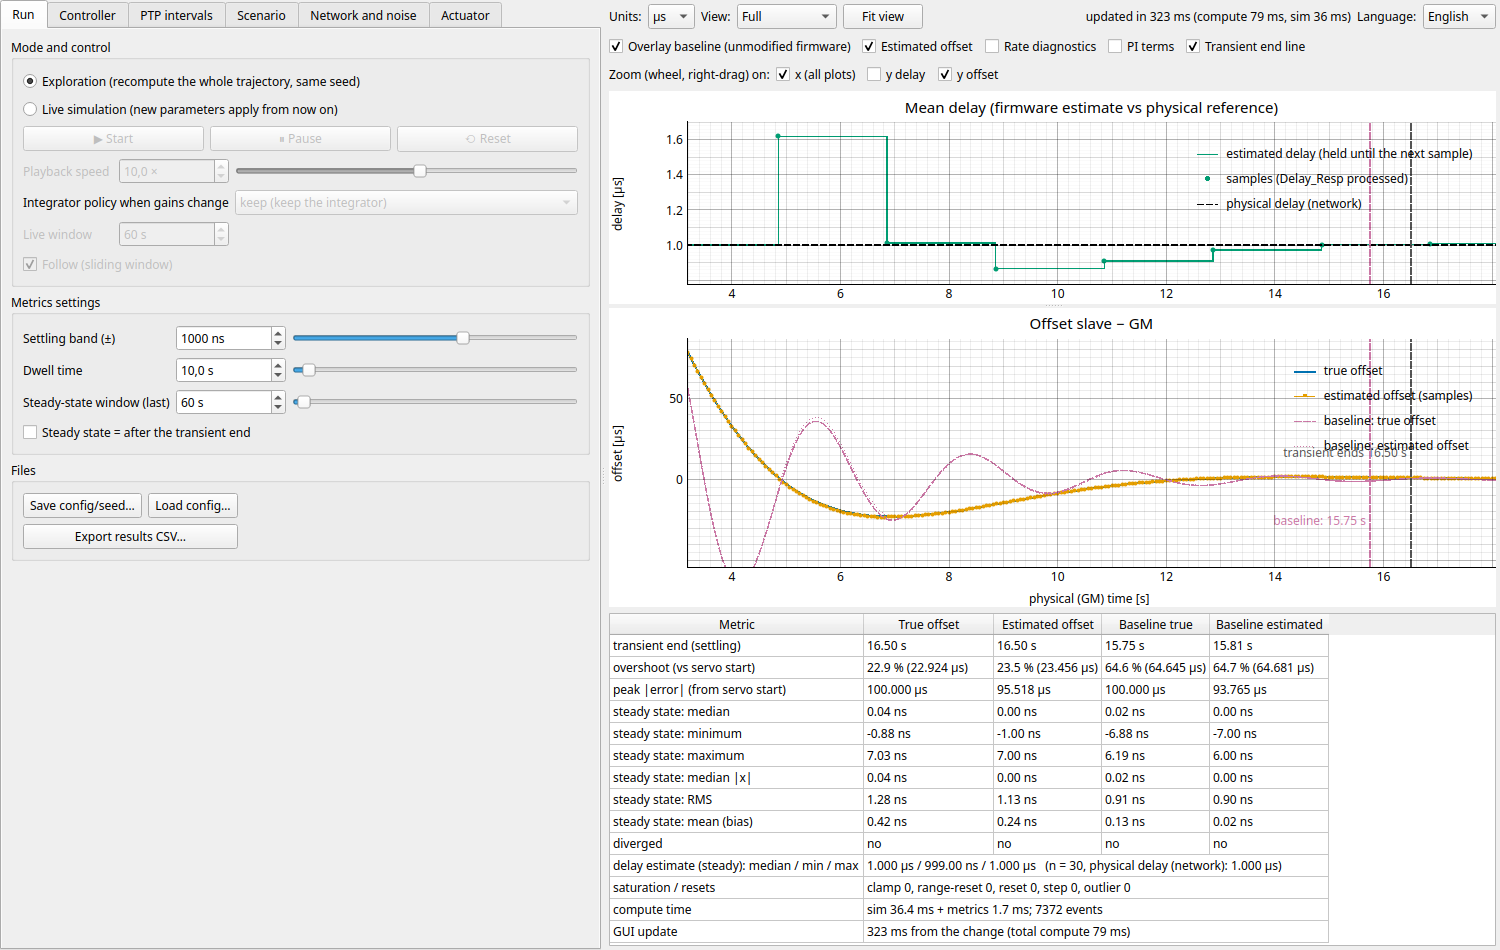
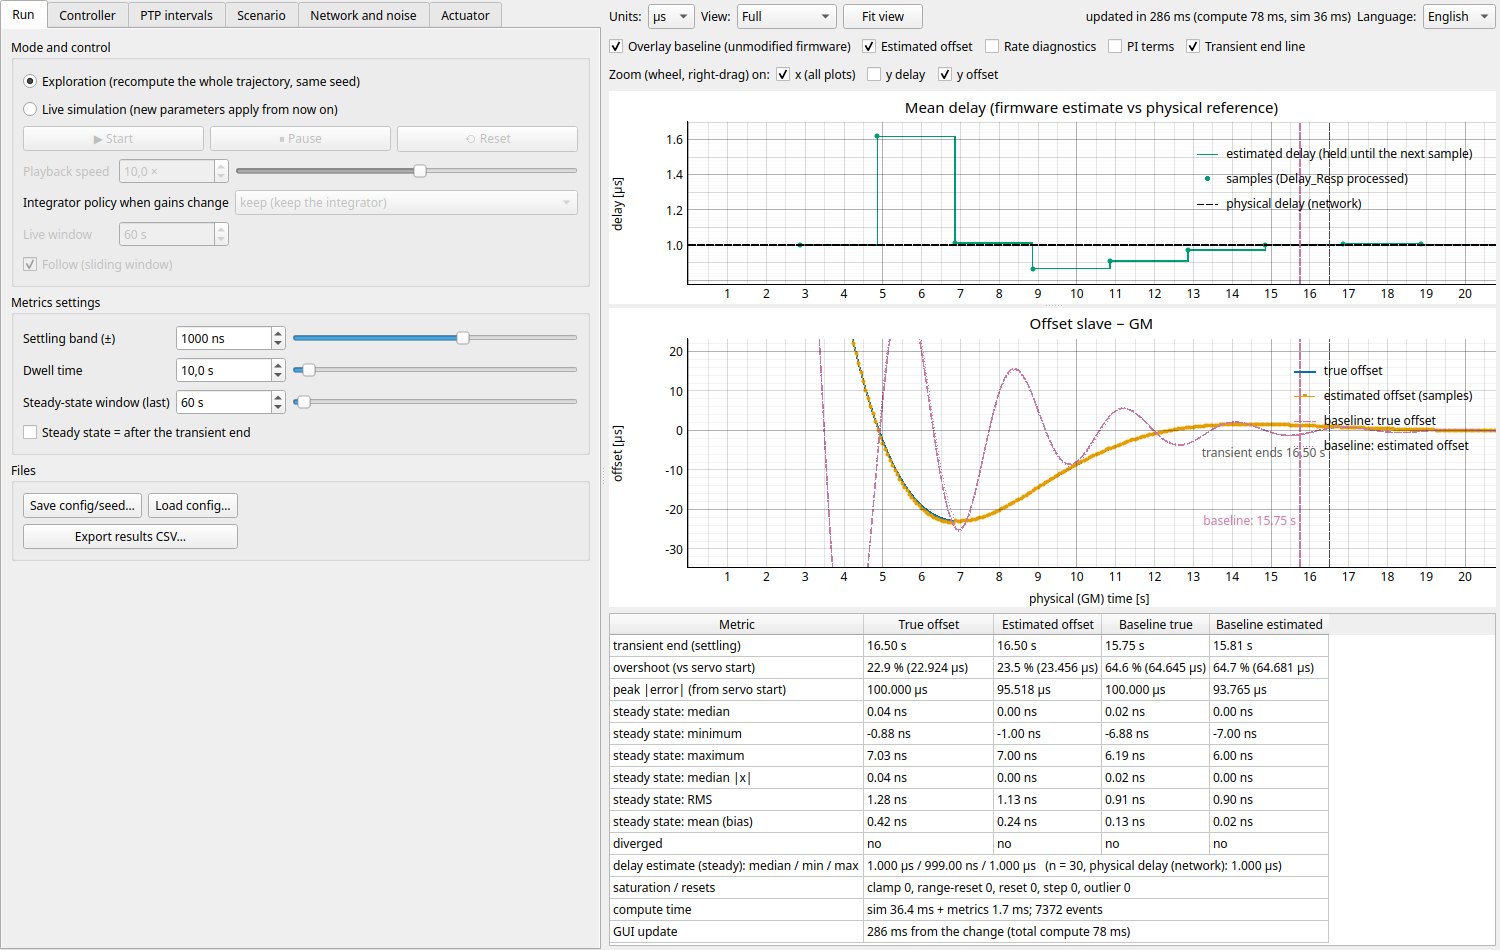
Docs: zoom screenshot shows per-plot y; README hero next to the usage lines; table-column test
The zoom scene now zooms over the offset plot (y checked) and over the delay plot (y unchecked),
so the image shows what its caption says. Regression test for the baseline-column sizing.

diff --git a/scripts/make_gui_figures.py b/scripts/make_gui_figures.py
@@ -43,7 +43,7 @@ SCENES = {
                             "controller.name": "pi_anti_windup",
                             "controller.params": {"kp": 0.7, "ki": 0.3, "i_max_ppm": 100.0}}, pi_terms=True, units="ms",
                        size=(1500, 1050)),
-    # Zoom row: x zoomed on the transient in all plots, y of the delay plot left alone
+    # Zoom row: x is shared by all plots, y is zoomed only in the plot under the cursor (and only if its box is checked)
     "zoom": dict(cfg={"duration_s": 90.0, "intervals.sync_log": -4, "oscillator.initial_offset_ns": 100e3,
                       "oscillator.freq_error_ppb": 0.0, "controller.name": "pi_per_second",
                       "controller.params": {"kp": 0.7, "ki": 0.3}}, overlay=True, zoom=True),
@@ -121,16 +121,22 @@ def main(argv=None) -> int:
 
 
 def _zoom_scene(w, spin):
-    """Wheel-zoom the time axis (all plots) at the transient, y of the delay plot excluded from the zoom."""
+    """x is shared, y is per plot: four wheel notches over the offset plot (y offset checked) near the undershoot,
+    then one over the delay plot with y delay unchecked.  The delay plot's y is then only autoscaled to the visible data."""
     from PySide6 import QtCore, QtGui, QtWidgets
     w.chk_zoom_y["delay"].setChecked(False)
-    w.p_delay.setXRange(2.0, 22.0, padding=0)          # a deterministic x window instead of a wheel position
-    spin(300)
-    vp = w.pw_off.viewport()
-    pos = QtCore.QPointF(vp.width() * 0.3, vp.height() / 2)
-    ev = QtGui.QWheelEvent(pos, vp.mapToGlobal(pos), QtCore.QPoint(0, 0), QtCore.QPoint(0, 120), QtCore.Qt.NoButton,
-                           QtCore.Qt.NoModifier, QtCore.Qt.NoScrollPhase, False)
-    QtWidgets.QApplication.sendEvent(vp, ev)           # one wheel notch: x zoomed, y of the offset plot too
+
+    def notch(pw, fx, fy):
+        vp = pw.viewport()
+        pos = QtCore.QPointF(vp.width() * fx, vp.height() * fy)
+        ev = QtGui.QWheelEvent(pos, vp.mapToGlobal(pos), QtCore.QPoint(0, 0), QtCore.QPoint(0, 120),
+                               QtCore.Qt.NoButton, QtCore.Qt.NoModifier, QtCore.Qt.NoScrollPhase, False)
+        QtWidgets.QApplication.sendEvent(vp, ev)
+        spin(100)
+
+    for _ in range(4):
+        notch(w.pw_off, 0.10, 0.62)
+    notch(w.pw_delay, 0.10, 0.5)
 
 
 def _live_scene(w, spin, until):

diff --git a/tests/test_gui.py b/tests/test_gui.py
@@ -229,3 +229,22 @@ def test_zoom_checkboxes_follow_the_visibility_of_the_optional_plots(win):
     win.chk_pi.setChecked(False)
     assert win.chk_zoom_y["diag"].isHidden() and win.chk_zoom_y["pi"].isHidden()
     win.hide()
+
+
+def test_baseline_columns_are_sized_to_their_contents_when_the_overlay_appears(win):
+    """The overlay columns are hidden without overlay; a hidden column was not sized, so its text was cut."""
+    from ptpsim.engine import simulate
+    from ptpsim.metrics import compute_metrics
+    win.show()
+    cfg = SimConfig.load(CONFIGS[0]).with_overrides(duration_s=60.0, **{"oscillator.initial_offset_ns": 100e3})
+    win.metrics = compute_metrics(simulate(cfg))
+    win.base_metrics = None
+    win._fill_table()
+    assert win.table.isColumnHidden(3) and win.table.isColumnHidden(4)
+    win.base_metrics = compute_metrics(simulate(cfg))
+    win._fill_table()
+    for j in (3, 4):
+        assert not win.table.isColumnHidden(j)
+        assert win.table.columnWidth(j) >= win.table.sizeHintForColumn(j)
+    win.metrics = win.base_metrics = None
+    win.hide()

diff --git a/README.md b/README.md
@@ -38,6 +38,10 @@ Documentation screenshots: `python scripts/make_gui_figures.py` (all scenes, en 
 Headless GUI screenshots (the real window and worker, driven from code, no display needed):
 `python scripts/gui_screenshots.py --out shots --controller pi_per_second --sync -4 -2 0 --overlay`.
 
+![GUI: pi_per_second against the baseline](docs/img/gui_run_en.png)
+*The GUI (`docs/img/gui_*_{en,it}.png`, regenerated by `scripts/make_gui_figures.py`): `pi_per_second` against the unmodified firmware baseline
+at Sync 62.5 ms, 100 µs step: undershoot 22.9 µs against 64.6 µs.*
+
 ## Repository layout
 
 | Path | Content |
@@ -113,10 +117,6 @@ At Sync ≥ 2 s the baseline diverges in the model while the variant settles in 
 is set by the path jitter and is essentially the same for both. See the full tables for Delay_Req sweeps,
 actuators and message loss: with 5 % loss the variant still settles faster (9.3 vs 14.1 s), but with **20 % loss it is
 worse** (RMS 426 vs 307 ns, 280 s vs 16 s settling) — it is not claimed better there.
-
-![GUI: pi_per_second against the baseline](docs/img/gui_run_en.png)
-*The GUI (`docs/img/gui_*_{en,it}.png`, regenerated by `scripts/make_gui_figures.py`): `pi_per_second` against the unmodified firmware baseline
-at Sync 62.5 ms, 100 µs step: undershoot 22.9 µs against 64.6 µs.*
 
 ![step response](docs/img/step_response.png)
 ![sync sweep](docs/img/sync_sweep.png)

diff --git a/docs/manual.it.md b/docs/manual.it.md
@@ -59,7 +59,7 @@ compaiono quando sono visibili). Gli assi non selezionati mantengono il loro int
 come con "Adatta vista"; lo zoom su y di un grafico selezionato spegne l'auto-range di quell'asse finché non premi "Adatta vista".
 
 ![Riga Zoom: x ingrandito, y del grafico delay deselezionato](img/gui_zoom_it.png)
-*La stessa simulazione dopo uno scatto di rotella sul grafico dell'offset con **y delay** deselezionato: l'asse del tempo è ingrandito in entrambi i grafici (circa 3–18 s) e il grafico del delay mantiene il proprio intervallo y (si riscala solo sui dati visibili).*
+*La stessa simulazione dopo quattro scatti di rotella sul grafico dell'offset (**y offset** selezionato) e uno su quello del delay (**y delay** deselezionato): l'asse del tempo è ingrandito in entrambi i grafici (≈ 1–20 s); solo la y dell'offset è ingrandita (da −30 a 20 µs), quella del delay no: si riscala soltanto sui dati visibili nell'intervallo di tempo ingrandito.*
 
 * *Grafico Delay*: la stima del delay del firmware (verde) è **tenuta** fino all'elaborazione della Delay_Resp successiva, con un
   punto a ogni campione (così si vede la frequenza reale dei campioni); la linea nera tratteggiata è il delay fisico della rete.

diff --git a/docs/manual.en.md b/docs/manual.en.md
@@ -59,7 +59,7 @@ their range when zooming, but dragging (pan) is never restricted. With y uncheck
 in the zoomed x range, as in "Fit view"; zooming on y with a checked plot switches that plot's y auto-range off until "Fit view".
 
 ![Zoom row: x zoomed, y of the delay plot unchecked](img/gui_zoom_en.png)
-*The same run after one wheel notch on the offset plot with **y delay** unchecked: the time axis is zoomed in both plots (about 3–18 s) and the delay plot keeps its own y range (it only rescales to the visible data).*
+*The same run after four wheel notches over the offset plot (**y offset** checked) and one over the delay plot (**y delay** unchecked): the time axis is zoomed in both plots (≈ 1–20 s); only the offset plot's y is zoomed (−30 to 20 µs), the delay plot's y is not — it merely rescales to the data visible in the zoomed time range.*
 
 * *Delay plot*: the firmware's delay estimate (green) is **held** until the next Delay_Resp is processed, with a dot at
   every sample (so the real sampling rate is visible); the dashed black line is the physical delay of the network.
